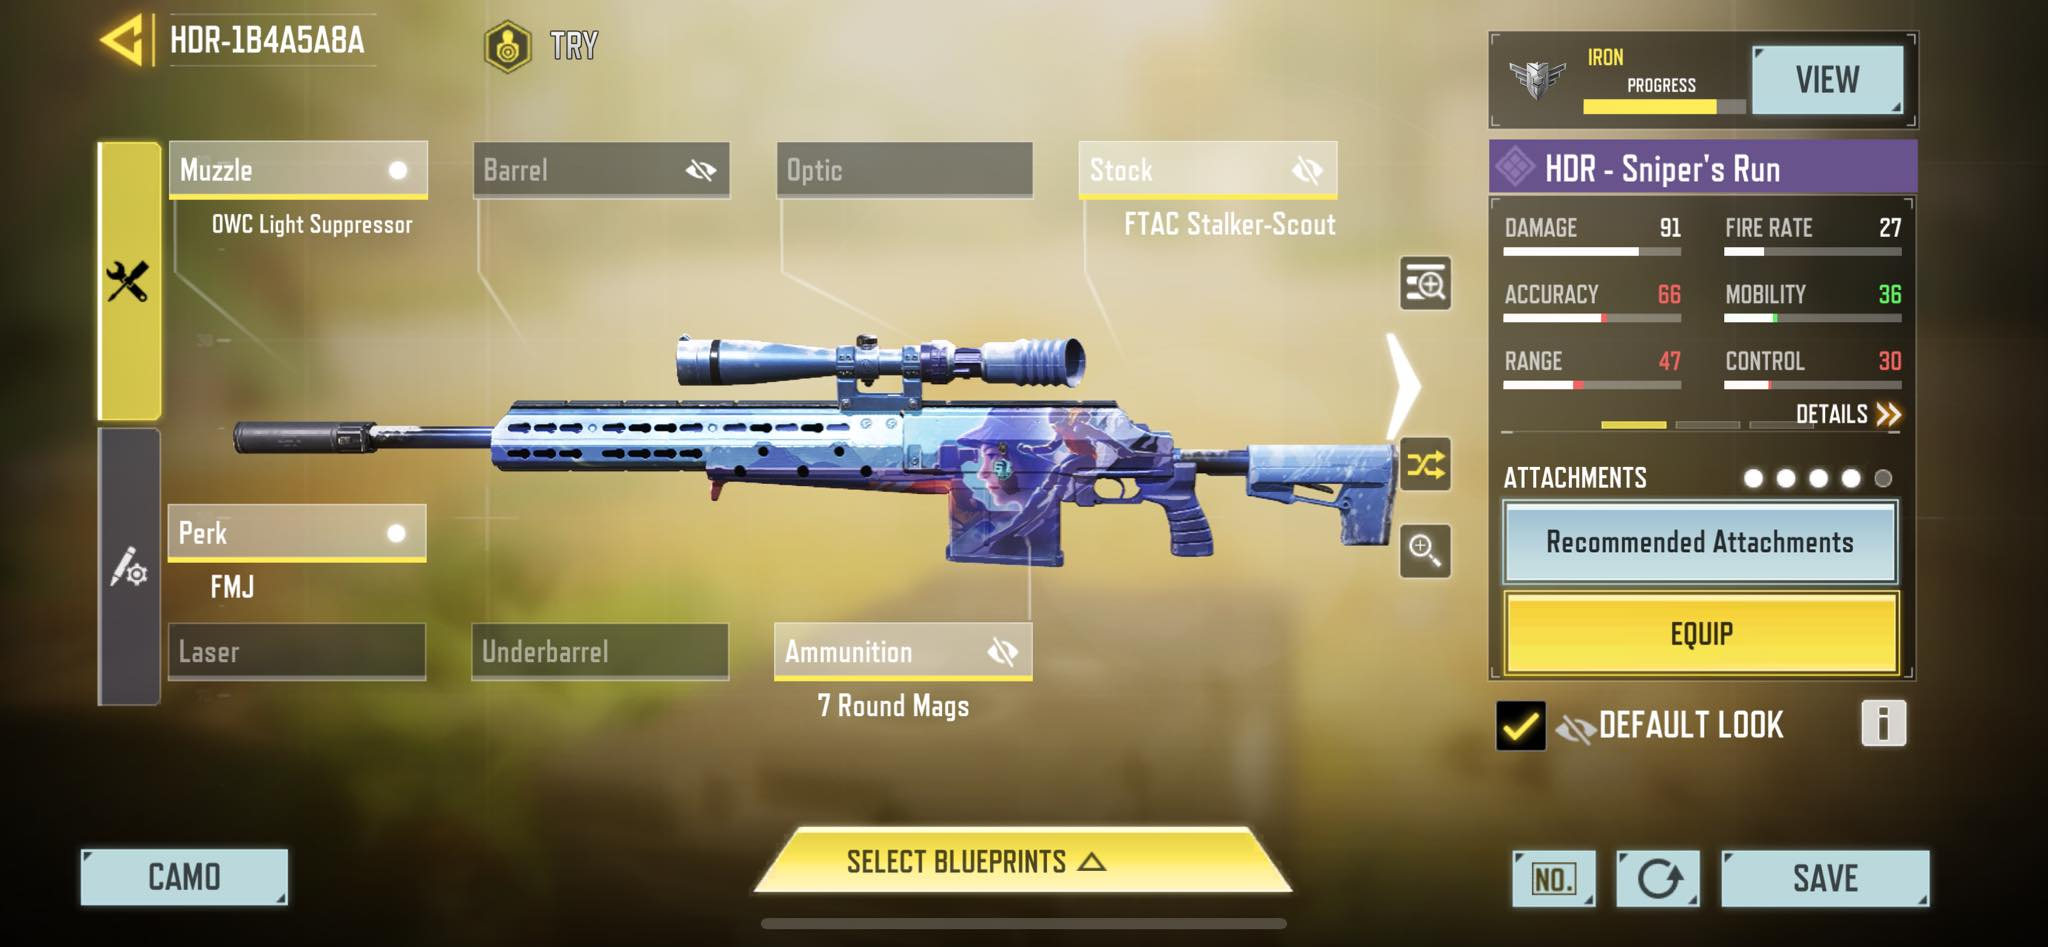
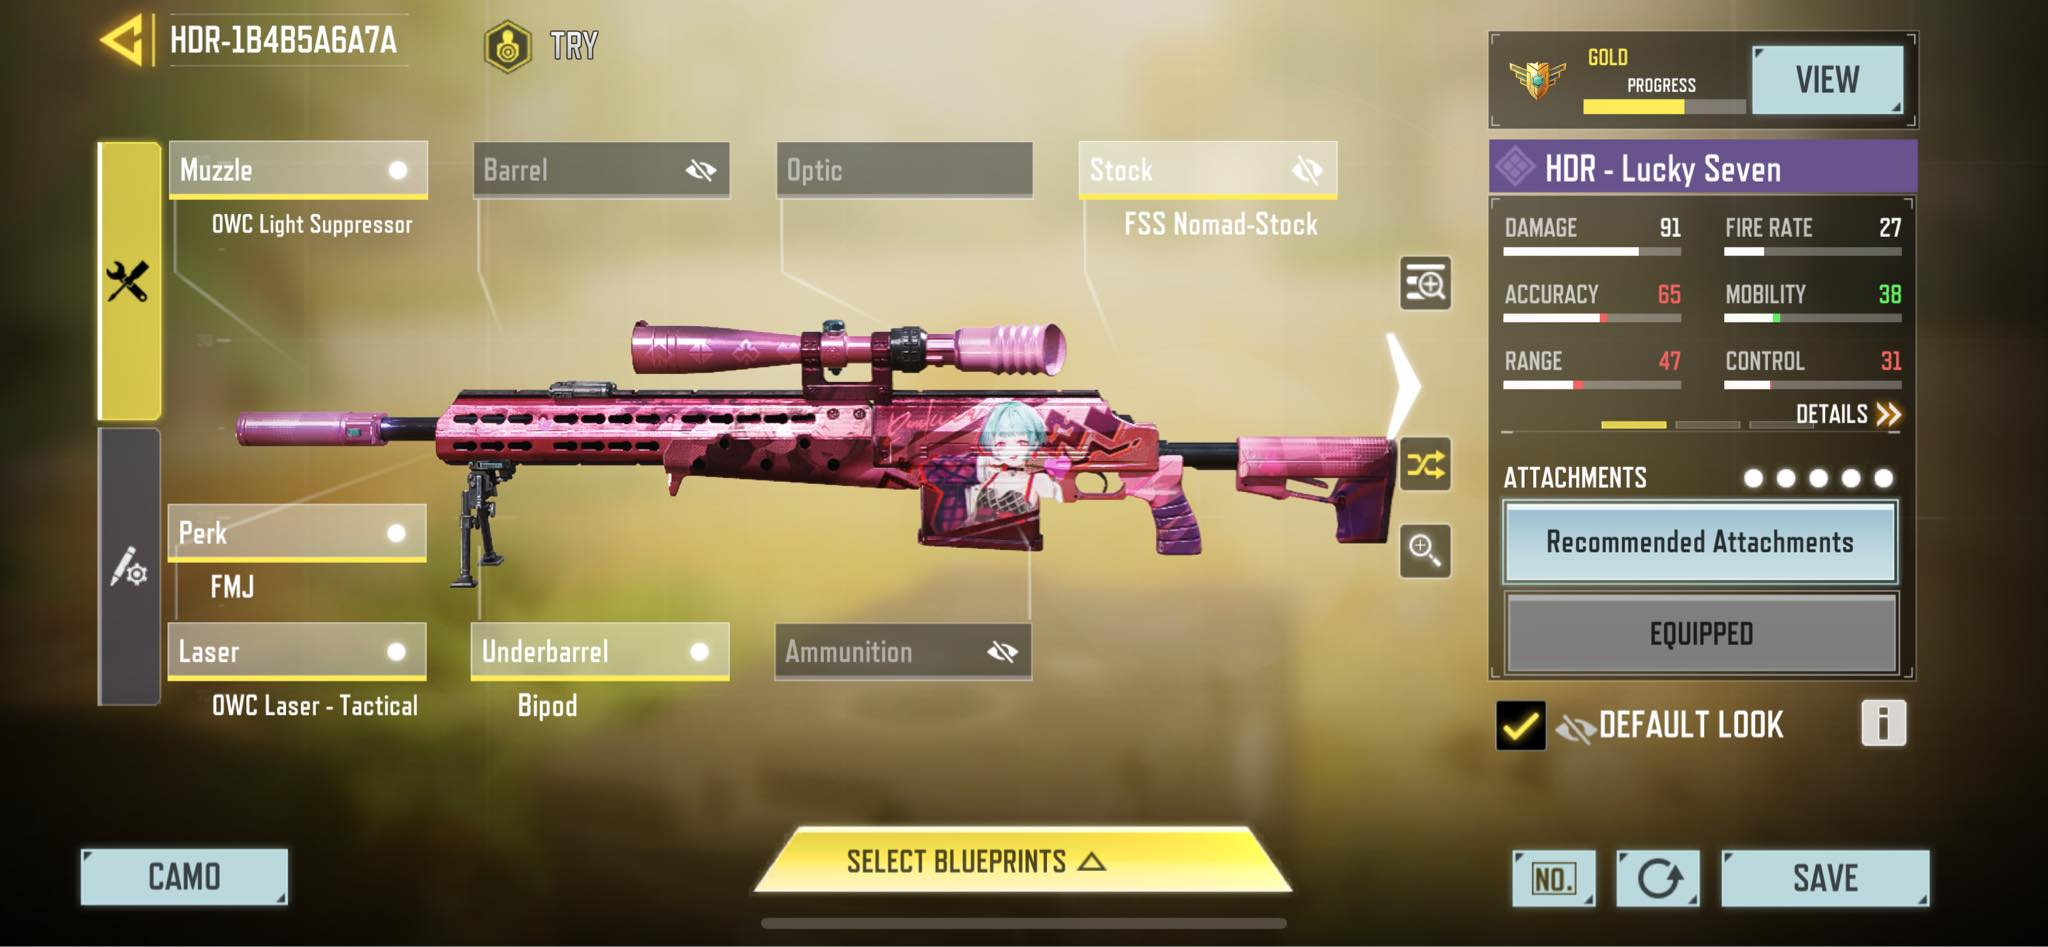
.

diff --git a/index.html b/index.html
@@ -195,8 +195,8 @@
             <div class="portfolio-wrap">
               <img src="assets/img/portfolio/drh.jpg" class="img-fluid" alt="">
               <div class="portfolio-info">
-                <h4>DRH</h4>
-                <p>DR-H-1C2C4D8B9A</p>
+                <h4>DR-H</h4>
+                <p>DR-H-1C2B4A8B9A</p>
                 <div class="portfolio-links">
                   <a href="assets/img/portfolio/drh.jpg" data-gallery="portfolioGallery" class="portfolio-lightbox"><i class="bx bx-plus"></i></a>
                   
@@ -223,7 +223,7 @@
               <img src="assets/img/portfolio/grau.jpg" class="img-fluid" alt="">
               <div class="portfolio-info">
                 <h4>Grau 5.56</h4>
-                <p>Grau 5.56-1C2D4C8B9A</p>
+                <p>Grau 5.56-1A2D4A8A9A</p>
                 <div class="portfolio-links">
                   <a href="assets/img/portfolio/grau.jpg" data-gallery="portfolioGallery" class="portfolio-lightbox"><i class="bx bx-plus"></i></a>
                   
@@ -237,7 +237,7 @@
               <img src="assets/img/portfolio/chopper.jpg" class="img-fluid" alt="">
               <div class="portfolio-info">
                 <h4>Chopper</h4>
-                <p>Chopper-1E2C5E7G</p>
+                <p>Chopper-1C2B5E7G</p>
                 <div class="portfolio-links">
                   <a href="assets/img/portfolio/chopper.jpg" data-gallery="portfolioGallery" class="portfolio-lightbox"><i class="bx bx-plus"></i></a>
                   
@@ -351,7 +351,7 @@
               <img src="assets/img/portfolio/em2.jpg" class="img-fluid" alt="">
               <div class="portfolio-info">
                 <h4>EM2</h4>
-                <p>EM2-1B2B7G8B9C</p>
+                <p>EM2-1B2B3A4C8B</p>
                 <div class="portfolio-links">
                   <a href="assets/img/portfolio/em2.jpg" data-gallery="portfolioGallery" class="portfolio-lightbox"><i class="bx bx-plus"></i></a>
                   
@@ -435,7 +435,7 @@
               <img src="assets/img/portfolio/hdr.jpg" class="img-fluid" alt="">
               <div class="portfolio-info">
                 <h4>HDR</h4>
-                <p>HDR-1B4A5A8A</p>
+                <p>HDR-1B4B5A6A7A</p>
                 <div class="portfolio-links">
                   <a href="assets/img/portfolio/hdr.jpg" data-gallery="portfolioGallery" class="portfolio-lightbox"><i class="bx bx-plus"></i></a>
                   
@@ -971,20 +971,6 @@
                 <p>R9-0-1G2B6C8A9A</p>
                 <div class="portfolio-links">
                   <a href="assets/img/portfolio/r90.jpg" data-gallery="portfolioGallery" class="portfolio-lightbox"><i class="bx bx-plus"></i></a>
-                  
-                </div>
-              </div>
-            </div>
-          </div>
-
-          <div class="col-lg-4 col-md-6 portfolio-item filter-smg">
-            <div class="portfolio-wrap">
-              <img src="assets/img/portfolio/cbr.jpg" class="img-fluid" alt="">
-              <div class="portfolio-info">
-                <h4>CBR4</h4>
-                <p>CBR4-1C2B4A7B9A</p>
-                <div class="portfolio-links">
-                  <a href="assets/img/portfolio/cbr.jpg" data-gallery="portfolioGallery" class="portfolio-lightbox"><i class="bx bx-plus"></i></a>
                   
                 </div>
               </div>
